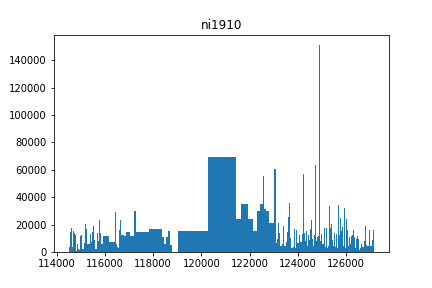
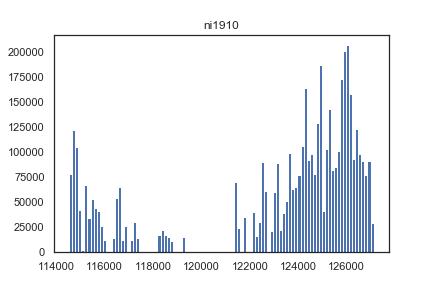
搞定直方图显示
用volume作为每个price的权重即可

Changed region(s): [[0.0, 0.0625, 0.9028, 0.9375]]

diff --git a/pvplot.py b/pvplot.py
@@ -24,14 +24,14 @@ class PriceVolumePlotter():
 		maxprice = max(prices)
 		minprice = min(prices)
 		size = 300
-		xnew = np.linspace(minprice,maxprice,size) #300 represents number of points to make between T.min and T.max
-		 
-		f = ip.interp1d(prices,volumes,kind='nearest')
+#		xnew = np.linspace(minprice,maxprice,size) #300 represents number of points to make between T.min and T.max
+#		 
+#		f = ip.interp1d(prices,volumes,kind='nearest')
 		# print (xnew)
 		# print (f(xnew))
-		width = (maxprice - minprice)/size
-		self.ax.bar(xnew,f(xnew), align='center', width=width)
-		# self.ax.hist(prices, bins=xnew, width=width)
+#		width = (maxprice - minprice)/size
+#		self.ax.bar(xnew,f(xnew), align='center', width=width)
+		self.ax.hist(prices, bins=100, weights=volumes)
 		# self.ax.bar([114540., 117685. ,120830. ,123975. ,127120.], [ 3842.5, 15145.61170213 ,55955.84761905 ,14572.375, 15750])
 
 		# width = (maxprice - minprice)/len(prices)

diff --git a/main.py b/main.py
@@ -55,7 +55,7 @@ if __name__=="__main__":
         trading_data = pd.read_json(url)
         trading_data.columns = ['time', 'open', 'high', 'low', 'close', 'volume']
         trading_data = trading_data.set_index('time')
-        trading_data.to_hdf('data/'+symbol+ ".h5")
+#        trading_data.to_hdf('data/'+symbol+ ".h5")
         results = json.load(urllib.request.urlopen(url))
         c = conn.cursor()
         c.execute("SELECT TradingTime from %s DESC LIMIT 1" %(bar_table))
